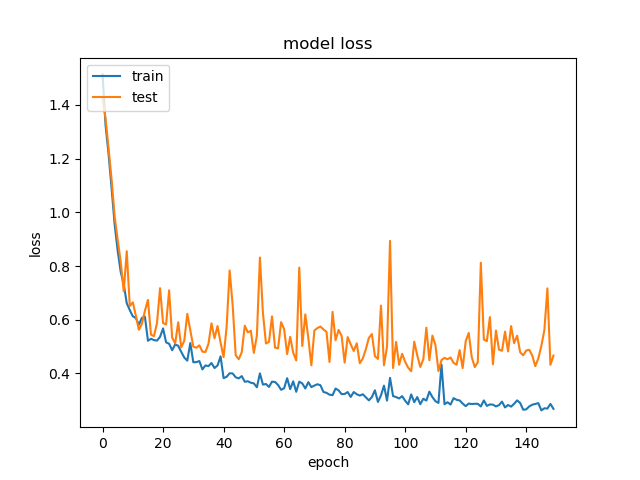
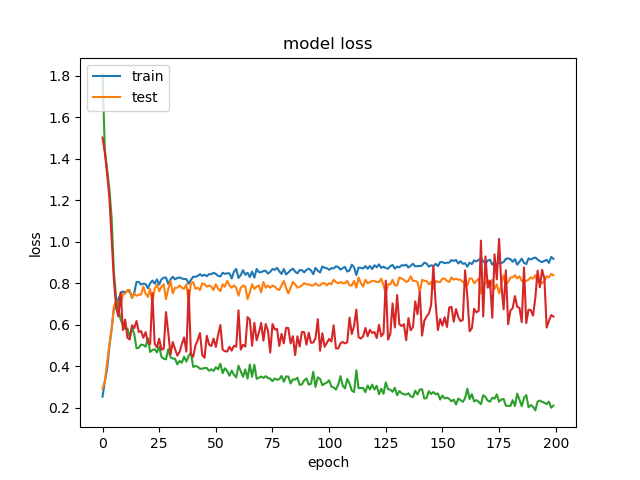
nearly 84% model reached

diff --git a/CardiologicClinic_WebApp/AI/main.py b/CardiologicClinic_WebApp/AI/main.py
@@ -41,7 +41,7 @@ def Training():
 #read data
     #data = pd.read_csv("./danecsvintH.csv", sep=";")
     my_data = genfromtxt('danecsvintH.csv', delimiter=';')
-    test = feat_select.SelectKBest(score_func=feat_select.chi2, k=10)
+    test = feat_select.SelectKBest(score_func=feat_select.chi2, k=51)
     X = my_data[1:, 0:59].astype('int')
     Y = my_data[1:, 59].astype('int')
     data = test.fit_transform(X, Y)
@@ -54,34 +54,21 @@ def Training():
     train_df, test_df = train_test_split(data, test_size=0.2, shuffle=True)
 
 #creating output classes
-    Y_train_df = train_df[:,len(train_df[0])-1]
-    Y_test_df = test_df[:,len(test_df[0])-1]
+    Y_train = train_df[:,len(train_df[0])-1]
+    Y_test = test_df[:,len(test_df[0])-1]
 
 #deleting output classes from training data
-    X_train_df = train_df[:,0:len(train_df[0])-1]
-    X_test_df = test_df[:,0:len(test_df[0])-1]
-
-#converting from datafram to numpy array
-    X_train = X_train_df#.values
-    X_test = X_test_df#.values
-    Y_train = Y_train_df#.values
-    Y_test = Y_test_df#.values
-
-#casting values to int
-    #X_train = X_train.astype('int')
-    #X_test = X_test.astype('int')
-    #Y_train = Y_train.astype('int')
-    #Y_test = Y_test.astype('int')
+    X_train = train_df[:,0:len(train_df[0])-1]
+    X_test = test_df[:,0:len(test_df[0])-1]
 
 # create model
     model = Sequential()
 
 #layers of the model
 # relu -> activation(x) = max(0,x)
-    model.add(Dense(10, input_dim=len(X_train[0]), activation='relu'))
-    model.add(Dense(20, activation='relu'))
-    model.add(Dense(10, activation='relu'))
-    model.add(Dense(5, activation='relu'))
+    model.add(Dense(13, input_dim=len(X_train[0]), activation='relu'))
+    model.add(Dense(8, activation='relu'))
+    model.add(Dense(8, activation='relu'))
     model.add(Dense(5, activation='softmax'))
 
 #optymalizer settings, in this examlpe we changed default learning rate
@@ -93,7 +80,7 @@ def Training():
 # batch_size is number of samples per gradient update
 # epoch is an iteration over the entire data provided
 #fit - train data
-    history = model.fit(X_train, Y_train, epochs=150, batch_size=10, validation_data=(X_test, Y_test))
+    history = model.fit(X_train, Y_train, epochs=200, batch_size=10, validation_data=(X_test, Y_test))
 
 # evaluate the model
 # acc = number of correct pred / total num of pred
